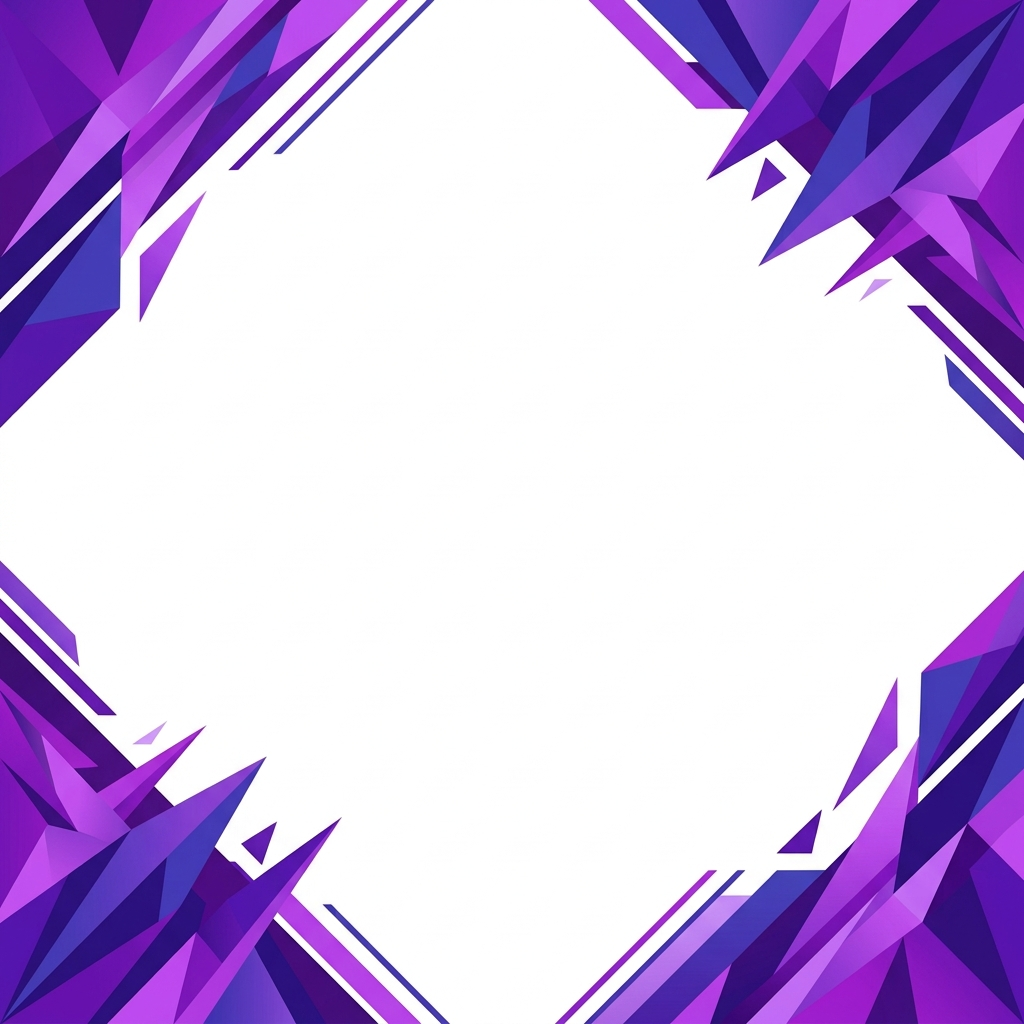
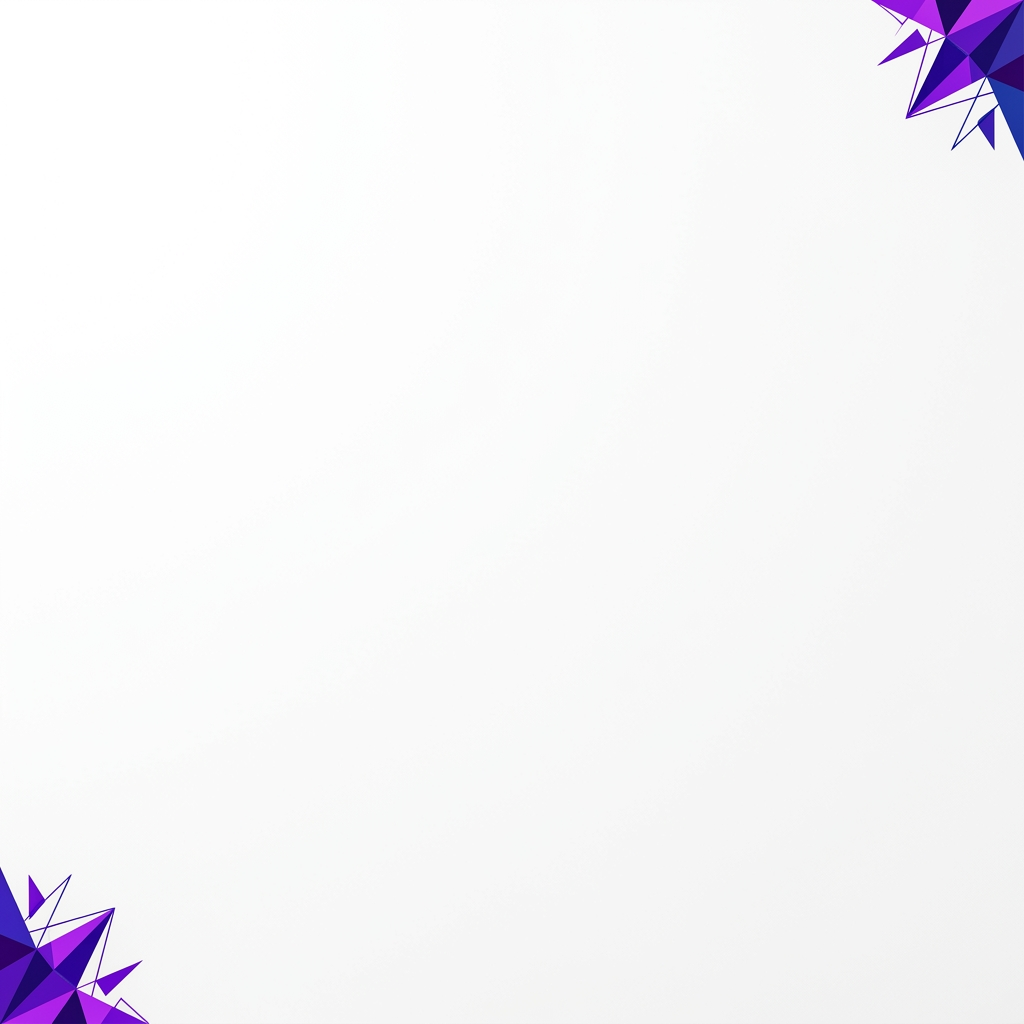
Generate and apply new bright background corners that do not interfere with text

diff --git a/artifacts/teamflow/src/pages/team.tsx b/artifacts/teamflow/src/pages/team.tsx
@@ -506,10 +506,10 @@ export function Team() {
                 }`}
               >
                 <div 
-                  className={`absolute inset-0 z-0 ${member.role === 'leader' ? 'opacity-25' : 'opacity-15'}`}
+                  className={`absolute inset-0 z-0 ${member.role === 'member' ? 'opacity-20' : 'opacity-100'}`}
                   style={{
                     backgroundImage: `url(${member.role === 'leader' ? '/bg-leader.png' : member.role === 'co-leader' ? '/bg-coleader.png' : '/bg-member.png'})`,
-                    backgroundSize: 'cover',
+                    backgroundSize: '100% 100%',
                     backgroundPosition: 'center'
                   }}
                 />